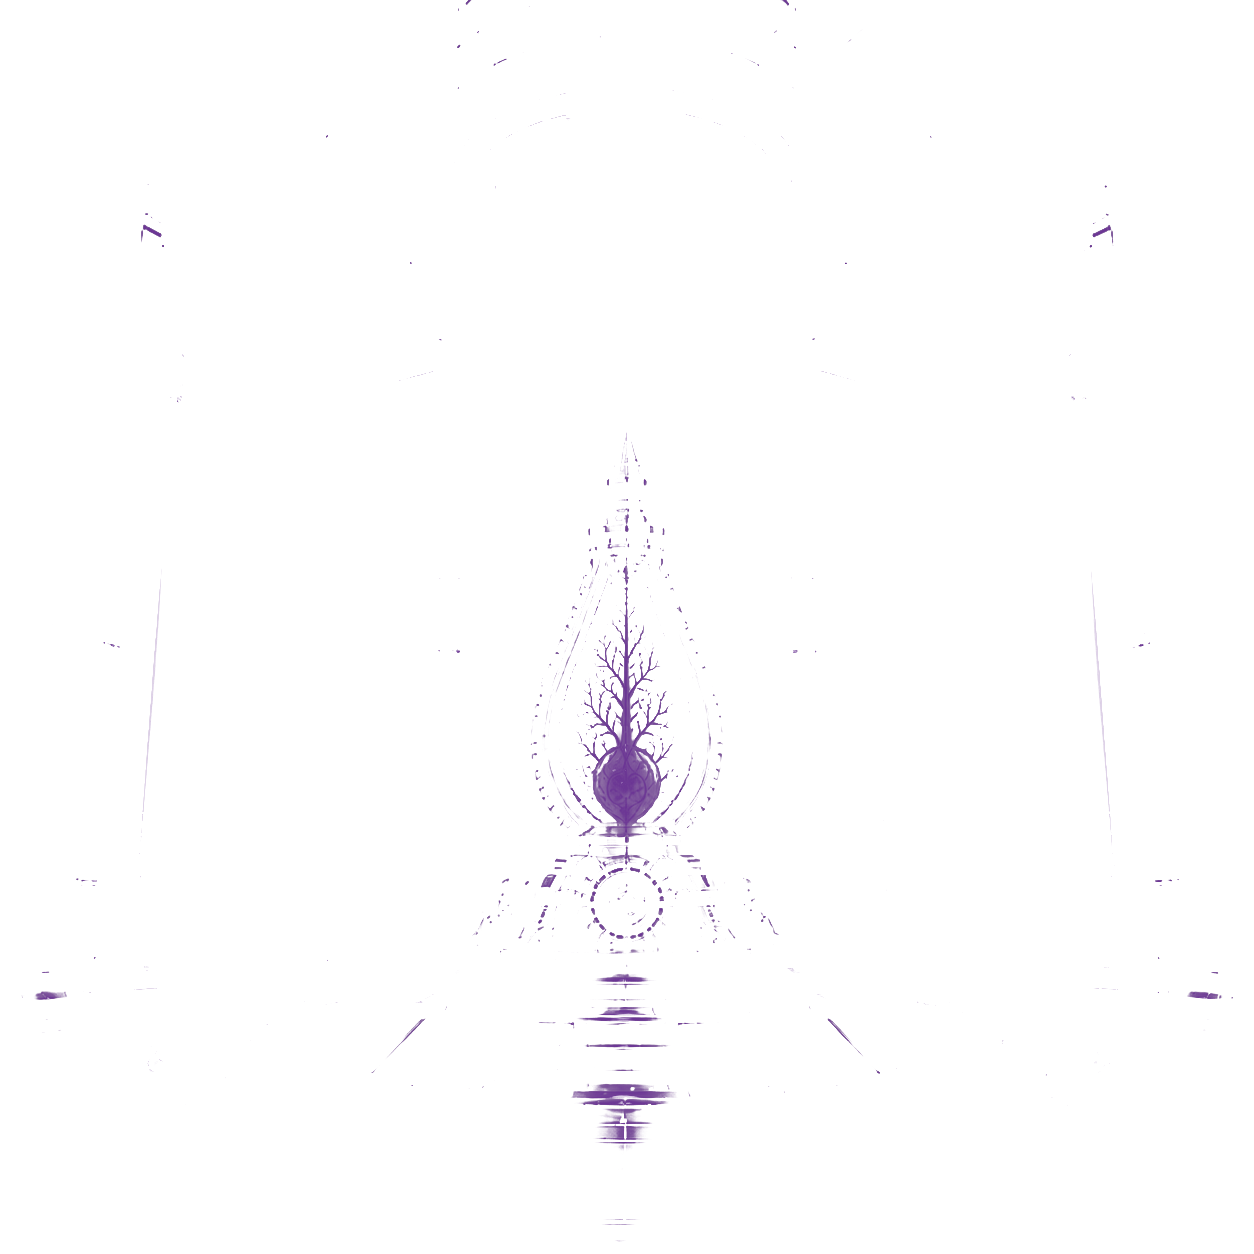
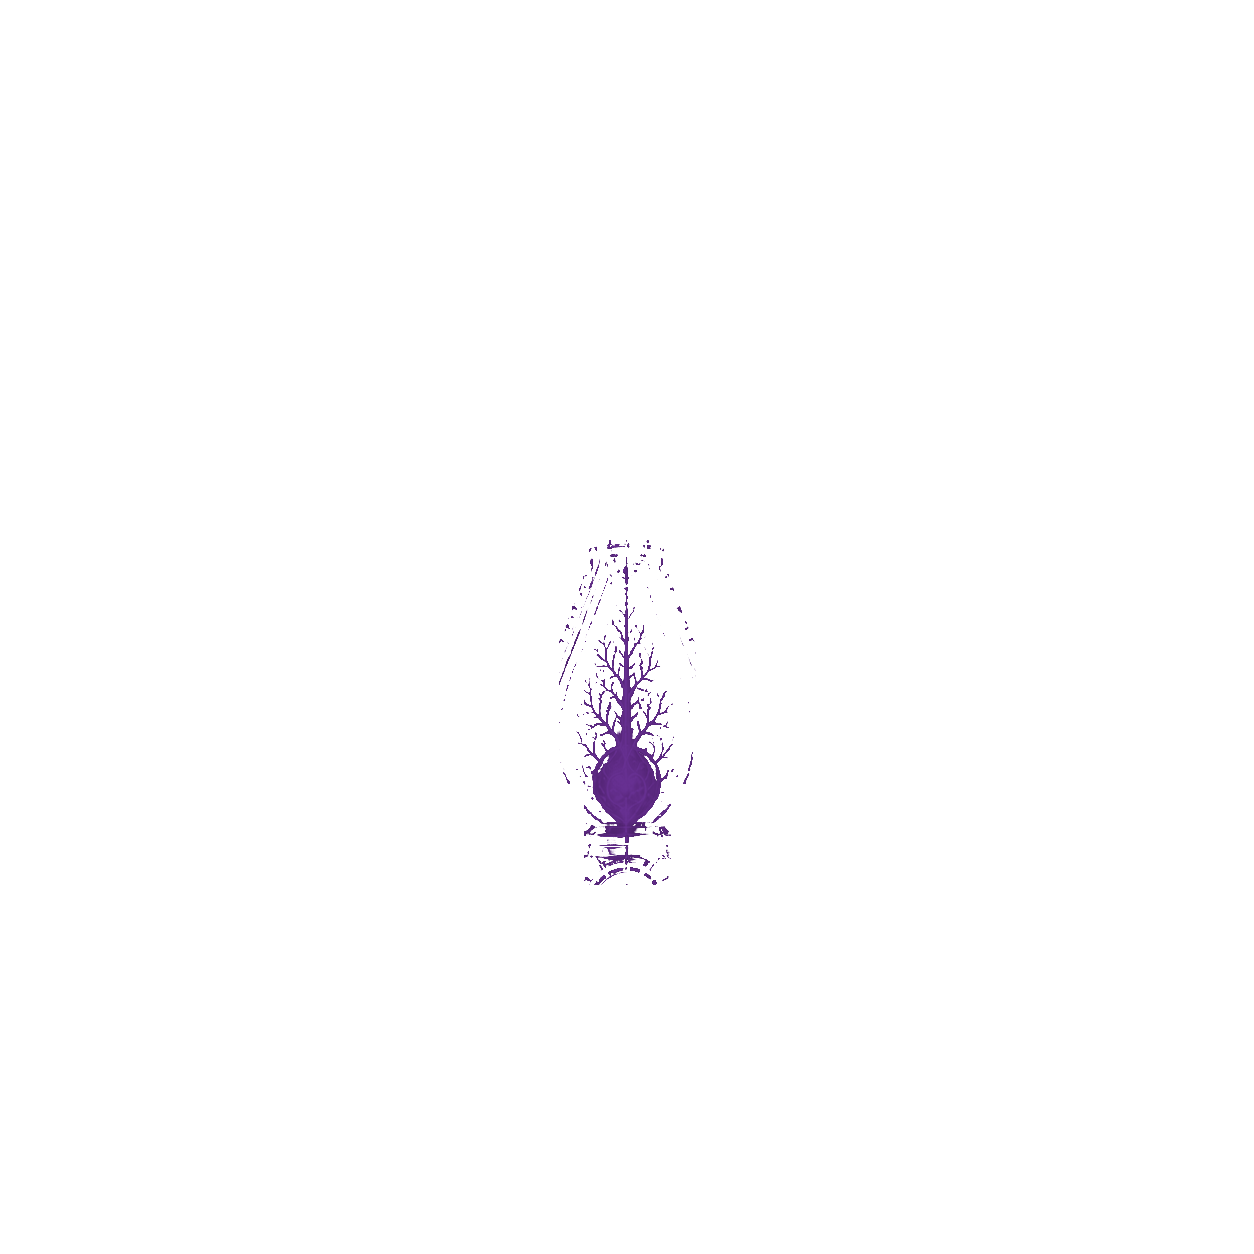
fix(mobile): mask relic anatomy by elixir level

diff --git a/mobile/src/features/social/faction/components/InteractiveRelicVial.tsx b/mobile/src/features/social/faction/components/InteractiveRelicVial.tsx
@@ -43,7 +43,6 @@ import Animated, {
   useDerivedValue,
   useReducedMotion,
   useSharedValue,
-  withRepeat,
   withSequence,
   withTiming,
 } from 'react-native-reanimated';
@@ -62,7 +61,6 @@ import StaticRelicVial from './StaticRelicVial';
 import { RelicVesselForegroundArtwork } from './RelicEnergyArtwork';
 
 const ARTBOARD_SIZE = 1_000;
-const IDLE_LIQUID_CYCLE_MS = 6_200;
 const REACTION_DURATION_MS = 1_650;
 const MUTATION_CHARGE_MS = 760;
 const MUTATION_RELEASE_MS = 1_840;
@@ -266,17 +264,13 @@ function relicLiquidCurrentPath(
 }
 
 function relicLiquidSurfaceOffsets(
-  idleProgress: number,
   reactionProgress: number,
   mutationProgress: number,
 ) {
   'worklet';
-  const idlePhase = idleProgress * Math.PI * 2;
-  const tilt = Math.sin(idlePhase) * 1.65;
-  const breathing = Math.sin(idlePhase * 2 + .58) * .58;
-  let left = tilt + breathing * .2;
-  let center = -breathing;
-  let right = -tilt + breathing * .2;
+  let left = 0;
+  let center = 0;
+  let right = 0;
 
   const reactionActive = reactionProgress < 1;
   const driver = reactionActive ? reactionProgress : mutationProgress;
@@ -327,7 +321,6 @@ const InteractiveRelicVial = forwardRef<InteractiveRelicVialHandle, Props>(funct
   width,
 }, ref) {
   const reduceMotion = useReducedMotion();
-  const idleProgress = useSharedValue(0);
   const reactionProgress = useSharedValue(1);
   const mutationProgress = useSharedValue(toContainer ? 0 : 1);
   const hasMutationTransition = Boolean(toContainer);
@@ -383,25 +376,10 @@ const InteractiveRelicVial = forwardRef<InteractiveRelicVialHandle, Props>(funct
     mutationProgress.value = toContainer ? 0 : 1;
   }, [fromContainer, mutationProgress, toContainer]);
 
-  useEffect(() => {
-    cancelAnimation(idleProgress);
-    idleProgress.value = 0;
-    if (reduceMotion) return;
-    idleProgress.value = withRepeat(
-      withTiming(1, {
-        duration: IDLE_LIQUID_CYCLE_MS,
-        easing: Easing.linear,
-      }),
-      -1,
-      false,
-    );
-  }, [idleProgress, reduceMotion]);
-
   useEffect(() => () => {
-    cancelAnimation(idleProgress);
     cancelAnimation(reactionProgress);
     cancelAnimation(mutationProgress);
-  }, [idleProgress, mutationProgress, reactionProgress]);
+  }, [mutationProgress, reactionProgress]);
 
   const oldVesselMotion = useAnimatedStyle(() => {
     if (!hasMutationTransition) return { opacity: 1, transform: [{ scale: 1 }] };
@@ -469,7 +447,6 @@ const InteractiveRelicVial = forwardRef<InteractiveRelicVialHandle, Props>(funct
         container={fromContainer}
         fillRatio={fillRatio}
         height={height}
-        idleProgress={idleProgress}
         mutationProgress={mutationProgress}
         reactionProgress={reactionProgress}
         width={width}
@@ -493,7 +470,6 @@ type RelicInteractionArtworkProps = {
   container: RelicContainer;
   fillRatio: number;
   height: number;
-  idleProgress: SharedValue<number>;
   mutationProgress: SharedValue<number>;
   reactionProgress: SharedValue<number>;
   width: number;
@@ -508,7 +484,6 @@ function RelicInteractionSkiaArtwork({
   container,
   fillRatio,
   height,
-  idleProgress,
   mutationProgress,
   reactionProgress,
   width,
@@ -524,7 +499,6 @@ function RelicInteractionSkiaArtwork({
   const dormantAmpouleAnatomy = useImage(AMPOULE_DORMANT_ANATOMY_ASSET);
   const animatedLiquidPath = useDerivedValue(() => {
     const offsets = relicLiquidSurfaceOffsets(
-      idleProgress.value,
       reactionProgress.value,
       mutationProgress.value,
     );
@@ -532,7 +506,6 @@ function RelicInteractionSkiaArtwork({
   });
   const animatedSurfacePath = useDerivedValue(() => {
     const offsets = relicLiquidSurfaceOffsets(
-      idleProgress.value,
       reactionProgress.value,
       mutationProgress.value,
     );
@@ -553,13 +526,6 @@ function RelicInteractionSkiaArtwork({
   const liquidEnergy = useDerivedValue(() => liquidPresent
     ? liquidActivationEnergy(reactionProgress.value, mutationProgress.value)
     : 0, [liquidPresent]);
-  const idleCurrentTransform = useDerivedValue(() => {
-    const phase = idleProgress.value * Math.PI * 2;
-    return [
-      { translateX: Math.sin(phase + 1.35) * 3.1 },
-      { translateY: Math.cos(phase * .72) * 1.45 },
-    ];
-  });
   const flashProgress = useDerivedValue(() => mutationFlashPhase(mutationProgress.value));
   const flashRadius = useDerivedValue(() => 18 + flashProgress.value * 165);
   const flashOpacity = useDerivedValue(() => mutationFlashOpacity(mutationProgress.value));
@@ -572,17 +538,6 @@ function RelicInteractionSkiaArtwork({
         src={rect(0, 0, ARTBOARD_SIZE, ARTBOARD_SIZE)}
       >
         <Group clip={config.interiorPath}>
-          <Group clip={AMPOULE_ROOT_REGION} opacity={prototypeEnabled ? 1 : 0}>
-            <SkiaImage
-              fit="fill"
-              height={ARTBOARD_SIZE}
-              image={dormantAmpouleAnatomy}
-              width={ARTBOARD_SIZE}
-              x={0}
-              y={0}
-            />
-          </Group>
-
           {liquidPresent ? (
             <Path path={animatedLiquidPath}>
               <LinearGradient
@@ -596,7 +551,7 @@ function RelicInteractionSkiaArtwork({
 
           {idleCurrentPath && liquidVolumePath ? (
             <Group clip={liquidVolumePath}>
-              <Group opacity={.06} transform={idleCurrentTransform}>
+              <Group opacity={.06}>
                 <Path
                   color="#B77AC2"
                   path={idleCurrentPath}
@@ -641,16 +596,6 @@ function RelicInteractionSkiaArtwork({
             />
           </Group>
 
-          <Group clip={AMPOULE_HEART_REGION} opacity={prototypeEnabled ? .92 : 0}>
-            <SkiaImage
-              fit="fill"
-              height={ARTBOARD_SIZE}
-              image={ampouleAnatomy}
-              width={ARTBOARD_SIZE}
-              x={0}
-              y={0}
-            />
-          </Group>
           <Group blendMode="screen" clip={AMPOULE_HEART_REGION} opacity={heartEnergy}>
             <SkiaImage
               fit="fill"
@@ -661,6 +606,31 @@ function RelicInteractionSkiaArtwork({
               y={0}
             />
           </Group>
+
+          {prototypeEnabled && liquidPresent ? (
+            <Group clip={animatedLiquidPath}>
+              <Group clip={AMPOULE_ROOT_REGION}>
+                <SkiaImage
+                  fit="fill"
+                  height={ARTBOARD_SIZE}
+                  image={dormantAmpouleAnatomy}
+                  width={ARTBOARD_SIZE}
+                  x={0}
+                  y={0}
+                />
+              </Group>
+              <Group clip={AMPOULE_HEART_REGION}>
+                <SkiaImage
+                  fit="fill"
+                  height={ARTBOARD_SIZE}
+                  image={dormantAmpouleAnatomy}
+                  width={ARTBOARD_SIZE}
+                  x={0}
+                  y={0}
+                />
+              </Group>
+            </Group>
+          ) : null}
 
           {liquidPresent ? (
             <Path
@@ -719,15 +689,14 @@ function RelicInteractionSkiaArtwork({
 function RelicInteractionSvgArtwork({
   container,
   fillRatio,
-  idleProgress,
   mutationProgress,
   reactionProgress,
 }: RelicInteractionArtworkProps) {
   const config = RELIC_STAGE_ARTWORK[container];
   const uniqueId = useId().replace(/:/g, '');
   const clipId = `interactive-relic-clip-${uniqueId}`;
-  const dormantClipId = `interactive-relic-dormant-clip-${uniqueId}`;
-  const dormantRootRegionId = `interactive-relic-dormant-roots-${uniqueId}`;
+  const anatomyRegionId = `interactive-relic-anatomy-${uniqueId}`;
+  const immersedLiquidClipId = `interactive-relic-immersed-liquid-${uniqueId}`;
   const heartRegionId = `interactive-relic-heart-${uniqueId}`;
   const flashId = `interactive-relic-flash-${uniqueId}`;
   const liquidGradientId = `interactive-relic-liquid-depth-${uniqueId}`;
@@ -739,7 +708,6 @@ function RelicInteractionSvgArtwork({
   const bubbleSource = relicLiquidSurfaceForLevel(config, config.liquidFloor);
   const liquidVolumeProps = useAnimatedProps(() => {
     const offsets = relicLiquidSurfaceOffsets(
-      idleProgress.value,
       reactionProgress.value,
       mutationProgress.value,
     );
@@ -749,7 +717,6 @@ function RelicInteractionSvgArtwork({
   }, [config, level]);
   const liquidSurfaceProps = useAnimatedProps(() => {
     const offsets = relicLiquidSurfaceOffsets(
-      idleProgress.value,
       reactionProgress.value,
       mutationProgress.value,
     );
@@ -764,41 +731,8 @@ function RelicInteractionSvgArtwork({
         : 0,
     };
   }, [prototypeEnabled]);
-  const idleCurrentStyle = useAnimatedStyle(() => {
-    const phase = idleProgress.value * Math.PI * 2;
-    return {
-      transform: [
-        { translateX: Math.sin(phase + 1.35) * 3.1 },
-        { translateY: Math.cos(phase * .72) * 1.45 },
-      ],
-    };
-  });
   return (
     <View pointerEvents="none" style={StyleSheet.absoluteFill}>
-      {prototypeEnabled ? (
-        <View style={StyleSheet.absoluteFill}>
-          <Svg height="100%" preserveAspectRatio="xMidYMid slice" viewBox="0 0 1000 1000" width="100%">
-            <SvgDefs>
-              <SvgClipPath id={dormantClipId}><SvgPath d={config.interiorPath} /></SvgClipPath>
-              <SvgClipPath id={dormantRootRegionId}><SvgPath d={AMPOULE_ROOT_REGION} /></SvgClipPath>
-            </SvgDefs>
-            <SvgGroup clipPath={`url(#${dormantClipId})`}>
-              <SvgGroup clipPath={`url(#${dormantRootRegionId})`}>
-                <SvgImage
-                  height={ARTBOARD_SIZE}
-                  href={AMPOULE_DORMANT_ANATOMY_ASSET}
-                  opacity={1}
-                  preserveAspectRatio="xMidYMid slice"
-                  width={ARTBOARD_SIZE}
-                  x={0}
-                  y={0}
-                />
-              </SvgGroup>
-            </SvgGroup>
-          </Svg>
-        </View>
-      ) : null}
-
       {liquidPresent ? (
         <View style={StyleSheet.absoluteFill}>
           <Svg height="100%" preserveAspectRatio="xMidYMid slice" viewBox="0 0 1000 1000" width="100%">
@@ -822,7 +756,7 @@ function RelicInteractionSvgArtwork({
       ) : null}
 
       {idleCurrentPath && liquidVolumePath ? (
-        <Animated.View style={[StyleSheet.absoluteFill, idleCurrentStyle]}>
+        <View style={StyleSheet.absoluteFill}>
           <Svg height="100%" preserveAspectRatio="xMidYMid slice" viewBox="0 0 1000 1000" width="100%">
             <SvgDefs>
               <SvgClipPath id={`${clipId}-idle-current`}><SvgPath d={liquidVolumePath} /></SvgClipPath>
@@ -838,7 +772,7 @@ function RelicInteractionSvgArtwork({
               />
             </SvgGroup>
           </Svg>
-        </Animated.View>
+        </View>
       ) : null}
 
       <RelicSvgRootBand
@@ -878,30 +812,6 @@ function RelicInteractionSvgArtwork({
         uniqueId={`${uniqueId}-upper`}
       />
 
-      {prototypeEnabled ? (
-        <View style={StyleSheet.absoluteFill}>
-          <Svg height="100%" preserveAspectRatio="xMidYMid slice" viewBox="0 0 1000 1000" width="100%">
-            <SvgDefs>
-              <SvgClipPath id={`${clipId}-heart-base`}><SvgPath d={config.interiorPath} /></SvgClipPath>
-              <SvgClipPath id={`${heartRegionId}-base`}><SvgPath d={AMPOULE_HEART_REGION} /></SvgClipPath>
-            </SvgDefs>
-            <SvgGroup clipPath={`url(#${clipId}-heart-base)`}>
-              <SvgGroup clipPath={`url(#${heartRegionId}-base)`}>
-                <SvgImage
-                  height={ARTBOARD_SIZE}
-                  href={AMPOULE_ANATOMY_ASSET}
-                  opacity=".92"
-                  preserveAspectRatio="xMidYMid slice"
-                  width={ARTBOARD_SIZE}
-                  x={0}
-                  y={0}
-                />
-              </SvgGroup>
-            </SvgGroup>
-          </Svg>
-        </View>
-      ) : null}
-
       <Animated.View style={[StyleSheet.absoluteFill, heartEnergyStyle]}>
         <Svg height="100%" preserveAspectRatio="xMidYMid slice" viewBox="0 0 1000 1000" width="100%">
           <SvgDefs>
@@ -922,6 +832,39 @@ function RelicInteractionSvgArtwork({
           </SvgGroup>
         </Svg>
       </Animated.View>
+
+      {prototypeEnabled && liquidPresent ? (
+        <View style={StyleSheet.absoluteFill}>
+          <Svg height="100%" preserveAspectRatio="xMidYMid slice" viewBox="0 0 1000 1000" width="100%">
+            <SvgDefs>
+              <SvgClipPath id={`${clipId}-immersed-interior`}>
+                <SvgPath d={config.interiorPath} />
+              </SvgClipPath>
+              <SvgClipPath id={immersedLiquidClipId}>
+                <AnimatedSvgPath animatedProps={liquidVolumeProps} />
+              </SvgClipPath>
+              <SvgClipPath id={anatomyRegionId}>
+                <SvgPath d={AMPOULE_ROOT_REGION} />
+                <SvgPath d={AMPOULE_HEART_REGION} />
+              </SvgClipPath>
+            </SvgDefs>
+            <SvgGroup clipPath={`url(#${clipId}-immersed-interior)`}>
+              <SvgGroup clipPath={`url(#${immersedLiquidClipId})`}>
+                <SvgGroup clipPath={`url(#${anatomyRegionId})`}>
+                  <SvgImage
+                    height={ARTBOARD_SIZE}
+                    href={AMPOULE_DORMANT_ANATOMY_ASSET}
+                    preserveAspectRatio="xMidYMid slice"
+                    width={ARTBOARD_SIZE}
+                    x={0}
+                    y={0}
+                  />
+                </SvgGroup>
+              </SvgGroup>
+            </SvgGroup>
+          </Svg>
+        </View>
+      ) : null}
 
       {liquidPresent ? (
         <View style={StyleSheet.absoluteFill}>
